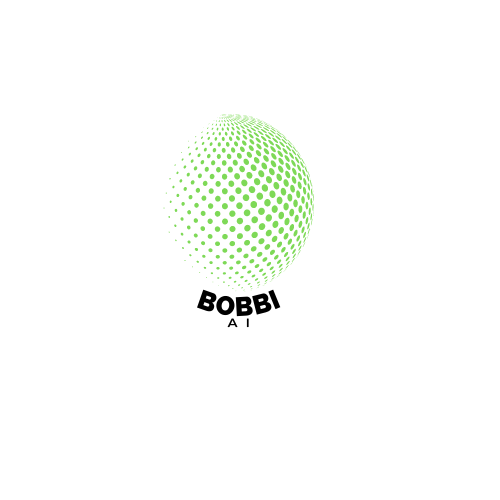
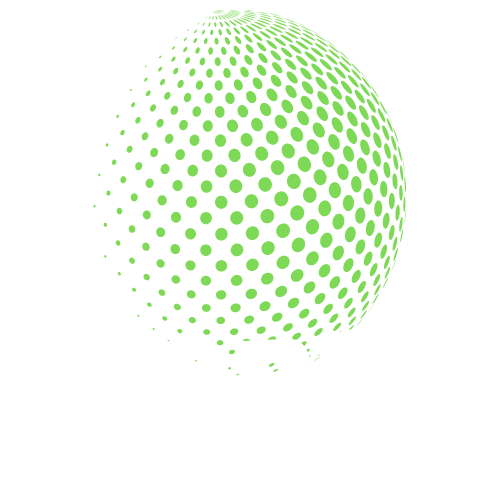
add to sidebar

diff --git a/components/Sidebar.tsx b/components/Sidebar.tsx
@@ -1,15 +1,32 @@
 'use client'
 import Link from 'next/link'
 import Image from 'next/image'
+import { Montserrat } from 'next/font/google'
+
+import { cn } from '@/lib/utils'
+import { LayoutDashboard } from 'lucide-react'
+const montserrat = Montserrat({
+  weight: '600',
+  subsets: ['latin'],
+})
+
+const routes = [
+  {
+    label: 'Dashboard',
+    icon: LayoutDashboard,
+  },
+]
+
 export default function Sidebar() {
   return (
     <>
       <div className="space-y-4 py-4 flex flex-col h-full bg-[#111827] text-white">
         <div className="px-3 py-2 flex-1">
           <Link href="/dashboard" className="flex items-center pl-3 mb-14">
-            <div className="relative w-8 h-8 mr-4">
-              <Image fill alt="logo" src="/Bobbi.png" className="w-full aspect-square" />
+            <div className="relative w-32 h-32 aspect-square mr-4">
+              <Image fill alt="logo" src="/Bobbi.png" />
             </div>
+            <h1 className={cn('text-2xl font-bold', montserrat.className)}>Bobbi</h1>
           </Link>
         </div>
       </div>

diff --git a/app/(dashboard)/(routes)/dashboard/page.tsx b/app/(dashboard)/(routes)/dashboard/page.tsx
@@ -3,8 +3,8 @@ import { UserButton } from '@clerk/nextjs'
 
 export default function DashboardPage() {
   return (
-    <>
+    <div>
       <p>Dashboard Page (protected)</p>
-    </>
+    </div>
   )
 }
